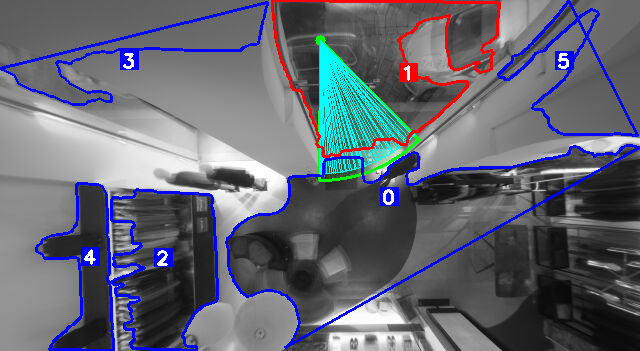
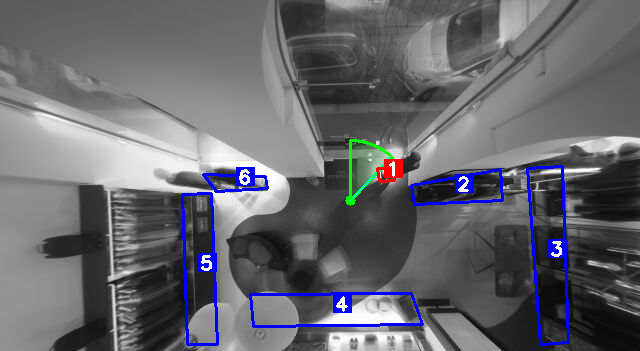
step 6.2 docs and examples complete

diff --git a/examples/real_image_processing.py b/examples/real_image_processing.py
@@ -1,9 +1,10 @@
 """Real image processing example for the view_arc pipeline.
 
-This script shows how the obstacle detector can be paired with simple
-image processing logic to extract contours from a real photograph. The
-demo loads ``images/background.jpeg`` that ships with the repository,
-then visualises the winning obstacle and angular coverage overlay.
+This script demonstrates how the obstacle detector can work with
+manually annotated polygons. The demo loads the background image from
+``images/background.jpeg`` plus polygons stored in
+``images/polygon_vertices.json`` and then visualises the winning
+obstacle and angular coverage overlay.
 
 Run with::
 
@@ -12,12 +13,13 @@ Run with::
 
 from __future__ import annotations
 
+import json
 from pathlib import Path
-from typing import List, cast
+from typing import Any, Dict, List, Mapping, Tuple, cast
 
 import numpy as np
 from numpy.typing import NDArray
-from skimage import color, filters, measure, morphology, io, util
+from skimage import color, io, util
 
 from view_arc import find_largest_obstacle
 from view_arc.api import ObstacleResult
@@ -26,65 +28,43 @@ from view_arc.visualize import draw_complete_visualization, HAS_CV2
 EXAMPLES_DIR = Path(__file__).resolve().parent
 PROJECT_ROOT = EXAMPLES_DIR.parent
 IMAGE_PATH = PROJECT_ROOT / "images" / "background.jpeg"
+POLYGON_PATH = PROJECT_ROOT / "images" / "polygon_vertices.json"
 OUTPUT_DIR = EXAMPLES_DIR / "output"
 OUTPUT_PATH = OUTPUT_DIR / "real_image_demo.png"
 
 
-def _polygon_area(vertices: NDArray[np.float32]) -> float:
-    """Compute the absolute area of a closed polygon using the shoelace formula."""
-
-    if vertices.shape[0] < 3:
-        return 0.0
-    x = vertices[:, 0]
-    y = vertices[:, 1]
-    return float(0.5 * np.abs(np.dot(x, np.roll(y, -1)) - np.dot(y, np.roll(x, -1))))
-
-
-def extract_obstacle_contours(
-    image: NDArray[np.uint8],
-    max_obstacles: int = 6,
-) -> List[NDArray[np.float32]]:
-    """Segment bright regions from an image and return polygonal contours."""
-
-    grayscale = color.rgb2gray(image)
-    blurred = filters.gaussian(grayscale, sigma=1.2)
-    threshold = filters.threshold_otsu(blurred)
-    mask = blurred > threshold
-    mask = morphology.remove_small_objects(mask, min_size=500)
-    mask = morphology.binary_closing(mask, footprint=np.ones((5, 5), dtype=bool))
-
-    contours = measure.find_contours(mask.astype(np.float32), level=0.5)
-
-    processed: List[NDArray[np.float32]] = []
-    for contour in contours:
-        if contour.shape[0] < 10:
-            continue
-
-        # Down-sample long contours to keep the polygon manageable
-        step = max(1, contour.shape[0] // 150)
-        contour = contour[::step]
-
-        # Convert from (row, col) to (x, y) with y growing downward (image coords)
-        polygon = np.column_stack((contour[:, 1], contour[:, 0])).astype(np.float32)
-        processed.append(polygon)
-
-    # Keep largest contours by projected area
-    processed.sort(key=_polygon_area, reverse=True)
-    return processed[:max_obstacles]
-
-
-def summarise_result(result: ObstacleResult) -> None:
+def summarise_result(
+    result: ObstacleResult,
+    index_to_id: Mapping[int, int] | None = None,
+) -> None:
     """Print summary information for the detection result."""
 
-    print(result.summary())
+    def _map_id(idx: int) -> int:
+        if index_to_id is not None:
+            return index_to_id.get(idx, idx)
+        return idx
+
+    if result.obstacle_id is not None:
+        winner_id = _map_id(result.obstacle_id)
+        print(f"Winner: Obstacle {winner_id}")
+        print(f"  Coverage: {result.angular_coverage_deg:.2f}°")
+        print(f"  Min Distance: {result.min_distance:.2f}")
+    else:
+        print("No obstacle visible in the view arc")
+
     print()
     if result.all_coverage:
-        print("Coverage per obstacle (degrees):")
-        for obstacle_id, coverage in sorted(result.all_coverage.items()):
+        print("Coverage per obstacle (by annotated id):")
+        for obstacle_index, coverage in sorted(result.all_coverage.items()):
+            display_id = _map_id(obstacle_index)
             coverage_deg = np.rad2deg(coverage)
-            min_distance = result.all_distances.get(obstacle_id, float("inf")) if result.all_distances else float("inf")
+            min_distance = (
+                result.all_distances.get(obstacle_index, float("inf"))
+                if result.all_distances
+                else float("inf")
+            )
             print(
-                f"  {obstacle_id}: {coverage_deg:.2f}° coverage, min_distance={min_distance:.2f}"
+                f"  {display_id}: {coverage_deg:.2f}° coverage, min_distance={min_distance:.2f}"
             )
 
 
@@ -105,20 +85,75 @@ def load_scene_image() -> NDArray[np.uint8]:
     return cast(NDArray[np.uint8], image.astype(np.uint8, copy=False))
 
 
+def load_obstacle_contours(
+    polygon_file: Path,
+) -> Tuple[List[NDArray[np.float32]], Dict[int, int]]:
+    """Load manually annotated polygons from JSON and return contours with ID mapping.
+
+    Returns:
+        A tuple of (obstacles, index_to_id) where obstacles is a list of polygon
+        arrays and index_to_id maps list indices to the original annotation IDs.
+    """
+
+    if not polygon_file.exists():
+        raise SystemExit(
+            f"Polygon annotation file not found at {polygon_file}. "
+            "Create it or adjust POLYGON_PATH."
+        )
+
+    with polygon_file.open("r", encoding="utf-8") as handle:
+        try:
+            data = json.load(handle)
+        except json.JSONDecodeError as exc:
+            raise SystemExit(f"Failed to parse {polygon_file}: {exc}") from exc
+
+    obstacles: List[NDArray[np.float32]] = []
+    index_to_id: Dict[int, int] = {}
+
+    for entry in data:
+        if not isinstance(entry, dict):
+            continue
+        vertices: Any = entry.get("vertices")
+        if not isinstance(vertices, list) or len(vertices) < 3:
+            continue
+        try:
+            polygon = np.array(vertices, dtype=np.float32)
+        except ValueError as exc:
+            raise SystemExit(
+                f"Invalid vertex data for entry {entry.get('id')}: {exc}"
+            ) from exc
+        if polygon.ndim != 2 or polygon.shape[1] != 2:
+            raise SystemExit(
+                f"Polygon {entry.get('id')} does not contain 2D vertices:"
+                f" shape={polygon.shape}"
+            )
+        obstacles.append(polygon)
+        try:
+            index_to_id[len(obstacles) - 1] = int(entry["id"])
+        except (KeyError, TypeError, ValueError):
+            index_to_id[len(obstacles) - 1] = len(obstacles) - 1
+
+    if not obstacles:
+        raise SystemExit(
+            f"No valid polygons found in {polygon_file}. Ensure the JSON contains "
+            "objects with 'id' and 'vertices' keys."
+        )
+
+    return obstacles, index_to_id
+
+
 def main() -> None:
     """Run obstacle detection on a real image and optionally visualise the result."""
 
     image = load_scene_image()
     height, width, _ = image.shape
 
-    viewer_point = np.array([width / 2.0, 40.0], dtype=np.float32)
-    view_direction = np.array([0.378, 0.925], dtype=np.float32)  # looking toward the bottom-right of the image
+    viewer_point = np.array([350, 200.0], dtype=np.float32)
+    view_direction = np.array([0.378, -0.925], dtype=np.float32)
     field_of_view_deg = 45.0
-    max_range = height * 0.4
+    max_range = 60.0
 
-    obstacles = extract_obstacle_contours(image, max_obstacles=6)
-    if not obstacles:
-        raise SystemExit("No contours detected; adjust segmentation parameters in extract_obstacle_contours().")
+    obstacles, index_to_id = load_obstacle_contours(POLYGON_PATH)
 
     result = find_largest_obstacle(
         viewer_point=viewer_point,
@@ -130,13 +165,19 @@ def main() -> None:
         return_all_coverage=True,
     )
 
-    summarise_result(result)
+    summarise_result(result, index_to_id=index_to_id)
 
     if not HAS_CV2:
         print("OpenCV not installed; skipping visualization output.")
         return
 
-    intervals = [(interval.angle_start, interval.angle_end) for interval in result.get_all_intervals()]
+    intervals = [
+        (interval.angle_start, interval.angle_end)
+        for interval in result.get_all_intervals()
+    ]
+
+    # Build labels from the annotation IDs
+    obstacle_labels = [str(index_to_id.get(i, i)) for i in range(len(obstacles))]
 
     visualization = draw_complete_visualization(
         image.astype(np.uint8),
@@ -147,6 +188,7 @@ def main() -> None:
         obstacle_contours=obstacles,
         winner_id=result.obstacle_id,
         intervals=intervals,
+        obstacle_labels=obstacle_labels,
     )
 
     OUTPUT_DIR.mkdir(parents=True, exist_ok=True)

diff --git a/view_arc/visualize.py b/view_arc/visualize.py
@@ -148,6 +148,7 @@ def draw_obstacle_contours(
     winner_color: Tuple[int, int, int] = (0, 0, 255),
     thickness: int = 2,
     show_labels: bool = False,
+    labels: Optional[List[str]] = None,
 ) -> NDArray[np.uint8]:
     """
     Draw obstacle contours, highlighting the winner.
@@ -160,6 +161,7 @@ def draw_obstacle_contours(
         winner_color: BGR color for winning obstacle
         thickness: Line thickness
         show_labels: If True, draw obstacle index labels at centroids
+        labels: Optional list of custom label strings (one per contour)
 
     Returns:
         Image with contour overlays (modified copy)
@@ -188,7 +190,7 @@ def draw_obstacle_contours(
             cx, cy = int(round(centroid[0])), int(round(centroid[1]))
 
             # Draw label background
-            label = str(idx)
+            label = labels[idx] if labels and idx < len(labels) else str(idx)
             font = cv2.FONT_HERSHEY_SIMPLEX
             font_scale = 0.6
             label_thickness = 2
@@ -319,6 +321,7 @@ def draw_complete_visualization(
     default_obstacle_color: Tuple[int, int, int] = (255, 0, 0),
     winner_obstacle_color: Tuple[int, int, int] = (0, 0, 255),
     interval_color: Tuple[int, int, int] = (255, 255, 0),
+    obstacle_labels: Optional[List[str]] = None,
 ) -> NDArray[np.uint8]:
     """
     Draw a complete visualization with wedge, obstacles, and intervals.
@@ -339,6 +342,7 @@ def draw_complete_visualization(
         default_obstacle_color: BGR color for non-winning obstacles
         winner_obstacle_color: BGR color for winning obstacle
         interval_color: BGR color for interval rays
+        obstacle_labels: Optional list of custom label strings for obstacles
 
     Returns:
         Image with complete visualization overlay
@@ -377,6 +381,7 @@ def draw_complete_visualization(
         default_color=default_obstacle_color,
         winner_color=winner_obstacle_color,
         show_labels=True,
+        labels=obstacle_labels,
     )
 
     return output
